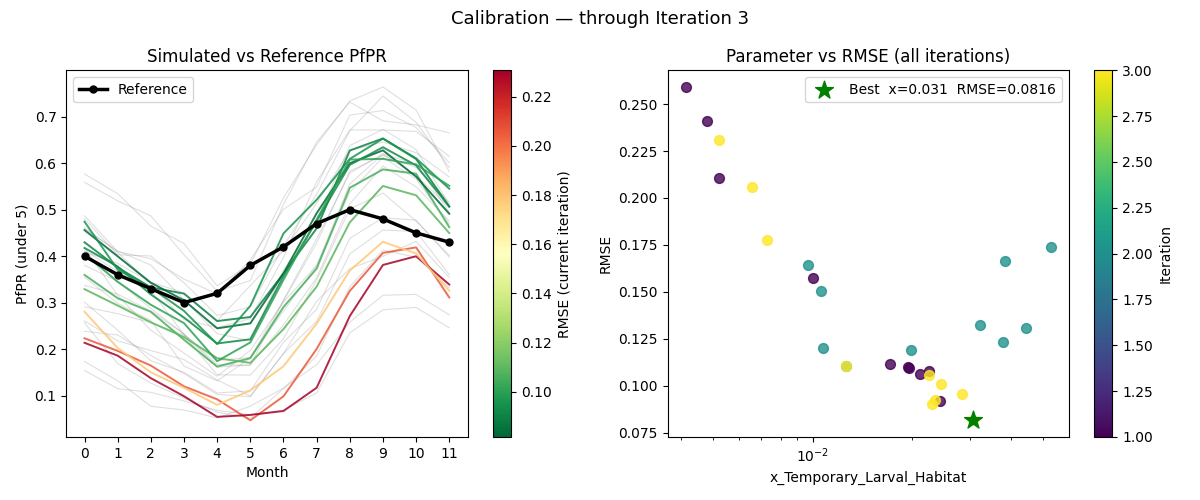
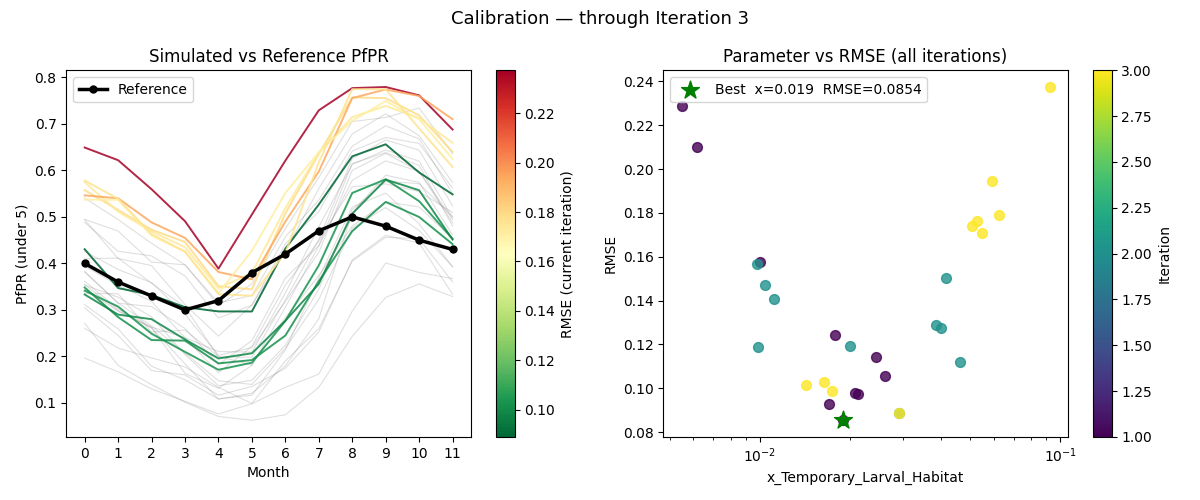
update images, improve calibrated value into #7
(cherry picked from commit 7a35538e8e8012d2e6581fad0bb591f3655955e8)

diff --git a/tutorials/tutorial_7_pickup.py b/tutorials/tutorial_7_pickup.py
@@ -57,13 +57,15 @@ from emodpy_malaria.reporters.builtin import add_malaria_summary_report
 
 import manifest
 
+# ============================================================
+# UPDATE - Paste the log10 value from Tutorial 6.
+# ============================================================
+CALIBRATED_LOG10_X_LARVAL_HABITAT = -1.61  # must match the value used in tutorial_7_burnin.py
+
 # ================================================================
 # UPDATE - Paste the experiment ID printed by tutorial_7_burnin.py
 # ================================================================
 BURNIN_EXP_ID = "paste-your-burnin-experiment-id-here"
-
-# Must match the value used in tutorial_7_burnin.py
-CALIBRATED_LOG10_X_LARVAL_HABITAT = -1.61  # must match the value used in tutorial_7_burnin.py
 
 serialize_years      = 50   # must match tutorial_7_burnin.py (used to compute .dtk filename)
 sim_years            = 3    # how many years to simulate after picking up from the burnin

diff --git a/tutorials/tutorial_6_calibration.py b/tutorials/tutorial_6_calibration.py
@@ -495,6 +495,12 @@ def run_calibration():
     print(f"\nCalibration complete.")
     print(f"Results are in the 'tutorial_6_calibration' directory.")
     print(f"Iteration plots are in 'tutorial_6_calibration/plots'.")
+    print(f"\n{'=' * 60}")
+    print(f"NEXT STEP: open tutorial_6_calibration/CalibManager.json, find")
+    print(f"  final_samples -> log10_x_Temporary_Larval_Habitat[0]")
+    print(f"  and paste that value into CALIBRATED_LOG10_X_LARVAL_HABITAT")
+    print(f"  in tutorial_7_burnin.py and tutorial_7_pickup.py")
+    print(f"{'=' * 60}")
     print("\nTutorial 6 is done.")
 
 

diff --git a/tutorials/tutorial_7_burnin.py b/tutorials/tutorial_7_burnin.py
@@ -55,8 +55,6 @@ import manifest
 
 # ============================================================
 # UPDATE - Paste the log10 value from Tutorial 6.
-# Open tutorial_6_calibration/CalibManager.json and find
-# data["final_samples"]["log10_x_Temporary_Larval_Habitat"][0]
 # ============================================================
 CALIBRATED_LOG10_X_LARVAL_HABITAT = -1.61  # example from Tutorial 6; replace with your value
 

diff --git a/tutorials/docs/tutorial-6.md b/tutorials/docs/tutorial-6.md
@@ -104,16 +104,7 @@ After each iteration a two-panel plot is saved to `tutorial_6_calibration/plots/
   iteration number (dark = early, bright = late). The green star marks the best sample across
   all iterations.
 
-There is no automated stopping criterion — stop when the fit looks close enough. When you
-are satisfied with the fit, open `tutorial_6_calibration/CalibManager.json` and find:
-
-```
-data["final_samples"]["log10_x_Temporary_Larval_Habitat"][0]
-```
-
-This is the log10 value that OptimTool converged on. Paste it directly into
-`CALIBRATED_LOG10_X_LARVAL_HABITAT` in `tutorial_7_burnin.py` — the script converts it to
-linear space automatically.
+There is no automated stopping criterion — stop when the fit looks close enough.
 
 ## Experimenting with the settings
 
@@ -148,6 +139,49 @@ complex calibrations with several parameters need more.
   are needed to explore the space. The current bounds `[-4, -1]` correspond to
   `[0.0001, 0.1]` in linear space — a range that covers several orders of magnitude and is
   wide enough for most single-site malaria calibrations.
+
+## Using the calibrated value in Tutorial 7
+
+When calibration finishes the script prints the best-fit log10 value to the terminal:
+
+```
+============================================================
+NEXT STEP: open tutorial_6_calibration/CalibManager.json, find
+  final_samples -> log10_x_Temporary_Larval_Habitat[0]
+  and paste that value into CALIBRATED_LOG10_X_LARVAL_HABITAT
+  in tutorial_7_burnin.py and tutorial_7_pickup.py
+============================================================
+```
+
+Open `tutorial_6_calibration/CalibManager.json` and look for:
+
+```json
+"final_samples": {
+    "log10_x_Temporary_Larval_Habitat": [
+        -1.5025470616699972
+    ]
+},
+```
+
+!!! note "If `final_samples` is not in CalibManager.json"
+    This key is only written when all iterations complete. If calibration was stopped early,
+    look at the right panel of the iteration plots — the green star marks the best sample
+    across all completed iterations. Use that `x_Temporary_Larval_Habitat` value, converting
+    it to log10 space (`log10(value)`), or pick the best row from any
+    `tutorial_6_calibration/iter*/pfpr_records.csv` by choosing the row with the lowest RMSE.
+
+Paste the value into **both** `tutorial_7_burnin.py` and `tutorial_7_pickup.py` —
+`CALIBRATED_LOG10_X_LARVAL_HABITAT` must be the same in both scripts:
+
+```python
+# ================================================================
+# UPDATE - Paste the log10 value from Tutorial 6.
+# ================================================================
+CALIBRATED_LOG10_X_LARVAL_HABITAT = -1.61  # replace with your value
+```
+
+Both scripts convert the log10 value to linear space automatically (`10 ** value`) —
+you do not need to do the conversion yourself.
 
 ## Calibration progress
 

diff --git a/tutorials/docs/tutorial-7.md b/tutorials/docs/tutorial-7.md
@@ -28,7 +28,7 @@ Tutorial 7 is split into two scripts:
 
 | Script | Purpose |
 |--------|---------|
-| `tutorial_7_burnin.py` | Simulate 50 years with no interventions and serialize the population — requires `CALIBRATED_LOG10_X_LARVAL_HABITAT` from Tutorial 6 |
+| `tutorial_7_burnin.py` | Simulate 50 years with no interventions and serialize the population — requires `CALIBRATED_LOG10_X_LARVAL_HABITAT` from [Tutorial 6](tutorial-6.md#using-the-calibrated-value-in-tutorial-7) |
 | `tutorial_7_pickup.py` | Load the serialized states and run intervention scenarios from them |
 
 ## Part 1: Burnin
